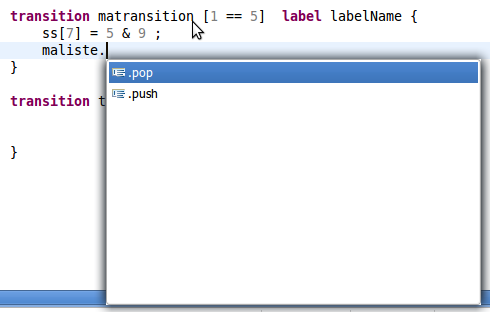
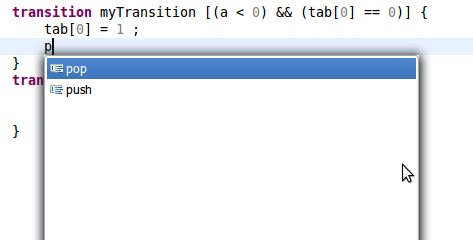
Updated Website. Changed the way of programming actions on lists. Updated some screenshots about lists.

Changed region(s): [[0.0, 0.0292, 1.0, 1.0]]

diff --git a/fr.lip6.move.gal.website/documentation/en/content.php b/fr.lip6.move.gal.website/documentation/en/content.php
@@ -330,10 +330,10 @@
 	<h5><a name="op-listes"></a>d) Operations on lists </h5>
 	<p>As mentioned before, the lists are based on the LIFO principle, therefore GAL provides operations for manipulating that structure. Here are the operations applied on lists:</p>
 	
-    <p>.<span class="galElement">push</span>(<em>integer expression </em>): can stack an integer value on the stack </p>
+    <p><span class="galElement">push</span>(<em>listName, integer expression </em>): can stack an integer value on the stack </p>
 
-    <p>.<span class="galElement">peek()</span>: returns the top of the stack without extracting. You must also be careful that, by the invocation of this operation, the list is not empty.</p>
-    <p>.<span class="galElement">pop()</span>: same as <code>peek()</code>, only that this operation extracts the top of the stack without returning it. </p>
+    <p><span class="galElement">peek(</span><em>listName</em><span class="galElement">)</span>: returns the top of the stack without extracting. You must also be careful that, by the invocation of this operation, the list is not empty.</p>
+    <p><span class="galElement">pop(</span><em>listName</em><span class="galElement">)</span>: same as <code>peek()</code>, only that this operation extracts the top of the stack without returning it. </p>
     <p>Below is an example of a system that offers a small panorama of the majority of concepts related to the GAL language:</p>
     <?php
 		printGalFile('galfiles/sample-7.gal');
